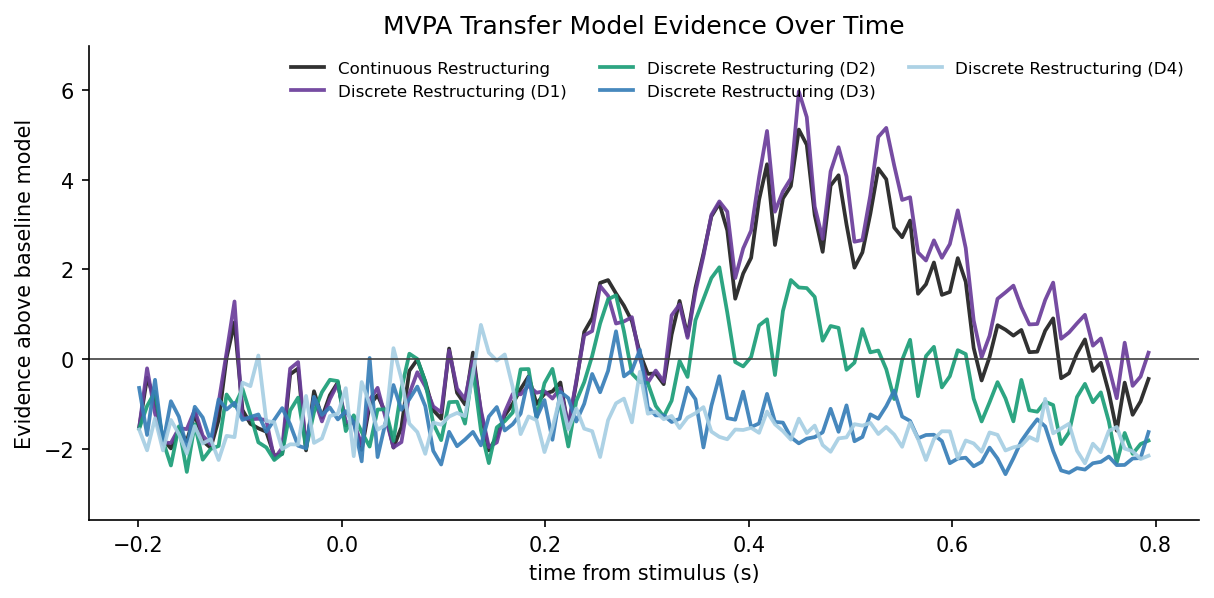
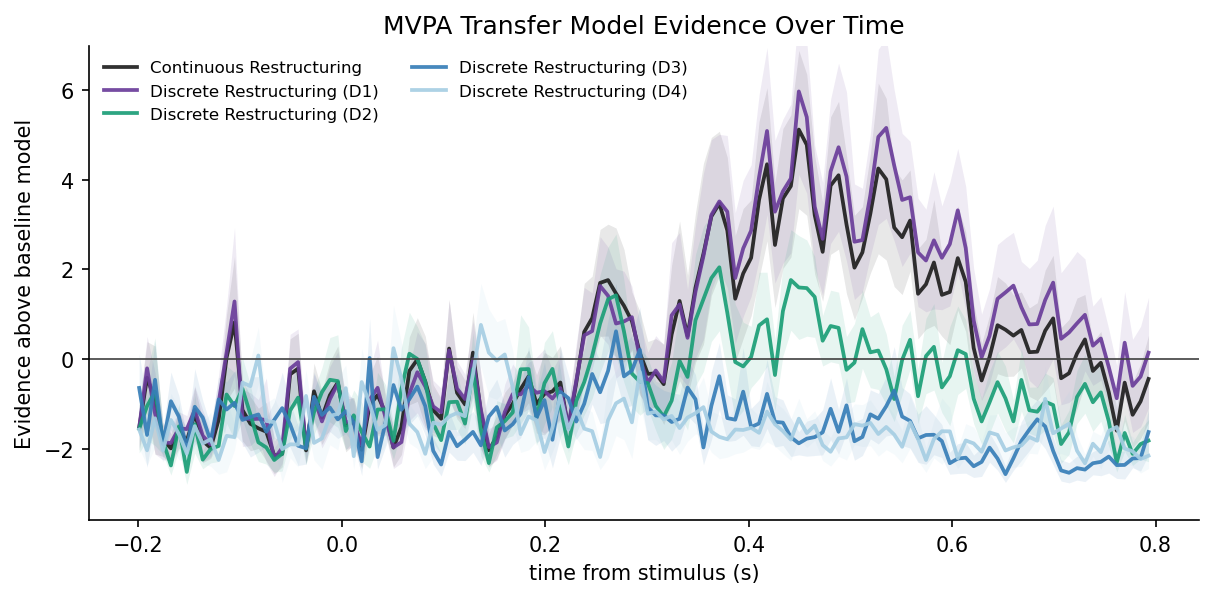
.

Changed region(s): [[0.0914, 0.0903, 0.9753, 0.7826]]

diff --git a/code/presentation_figure.py b/code/presentation_figure.py
@@ -1087,6 +1087,10 @@ def plot_presentation_mvpa_model_timecourse(output_dir, figures_dir):
         output_dir / "mvpa_tg_diagonal_presentation_model_bic_summary.csv",
         "presentation MVPA BIC model-timecourse output",
     )
+    subject_d = require_csv(
+        output_dir / "mvpa_tg_diagonal_presentation_model_bic_subject.csv",
+        "presentation MVPA subject-level BIC model-timecourse output",
+    )
     fig, ax = plt.subplots(figsize=(8.2, 4.1))
     mvpa_models = [
         ("Continuous Restructuring",    "Continuous Restructuring",    "#1f1f1f"),
@@ -1105,10 +1109,31 @@ def plot_presentation_mvpa_model_timecourse(output_dir, figures_dir):
             continue
         x = g["time_sec"].to_numpy(float)
         y = -g["delta_bic_null_mean"].to_numpy(float)
+        g_subject = subject_d[
+            (subject_d["classifier"] == "logreg")
+            & (subject_d["model_label"] == label)
+        ].copy()
+        sem_rows = []
+        for time_sec, g_time in g_subject.groupby("time_sec"):
+            vals = -g_time["delta_bic_null"].to_numpy(float)
+            sem_rows.append({"time_sec": float(time_sec), "sem": sem(vals)})
+        sem_df = pd.DataFrame(sem_rows)
+        g_sem = pd.DataFrame({"time_sec": x}).merge(
+            sem_df, on="time_sec", how="left"
+        )
+        y_sem = g_sem["sem"].to_numpy(float)
         for val in y:
             if np.isfinite(val):
                 y_vals.append(float(val))
         ax.plot(x, y, color=color, linewidth=1.8, alpha=0.92, label=plot_label)
+        ax.fill_between(
+            x,
+            y - y_sem,
+            y + y_sem,
+            color=color,
+            alpha=0.10,
+            linewidth=0,
+        )
     ax.axhline(0, color="0.25", linewidth=0.8)
     ax.set_xlabel("time from stimulus (s)")
     ax.set_ylabel("Evidence above baseline model")
@@ -1118,7 +1143,7 @@ def plot_presentation_mvpa_model_timecourse(output_dir, figures_dir):
         ymax = float(np.nanmax(y_vals))
         pad = 0.12 * max(ymax - ymin, 1.0)
         ax.set_ylim(ymin - pad, ymax + pad)
-    ax.legend(frameon=False, fontsize=8, ncol=3, loc="best")
+    ax.legend(frameon=False, fontsize=8, ncol=2, loc="upper left")
     setup_axis(ax)
     fig.tight_layout()
     fig_path = figures_dir / "presentation_mvpa_model_timecourse.png"
